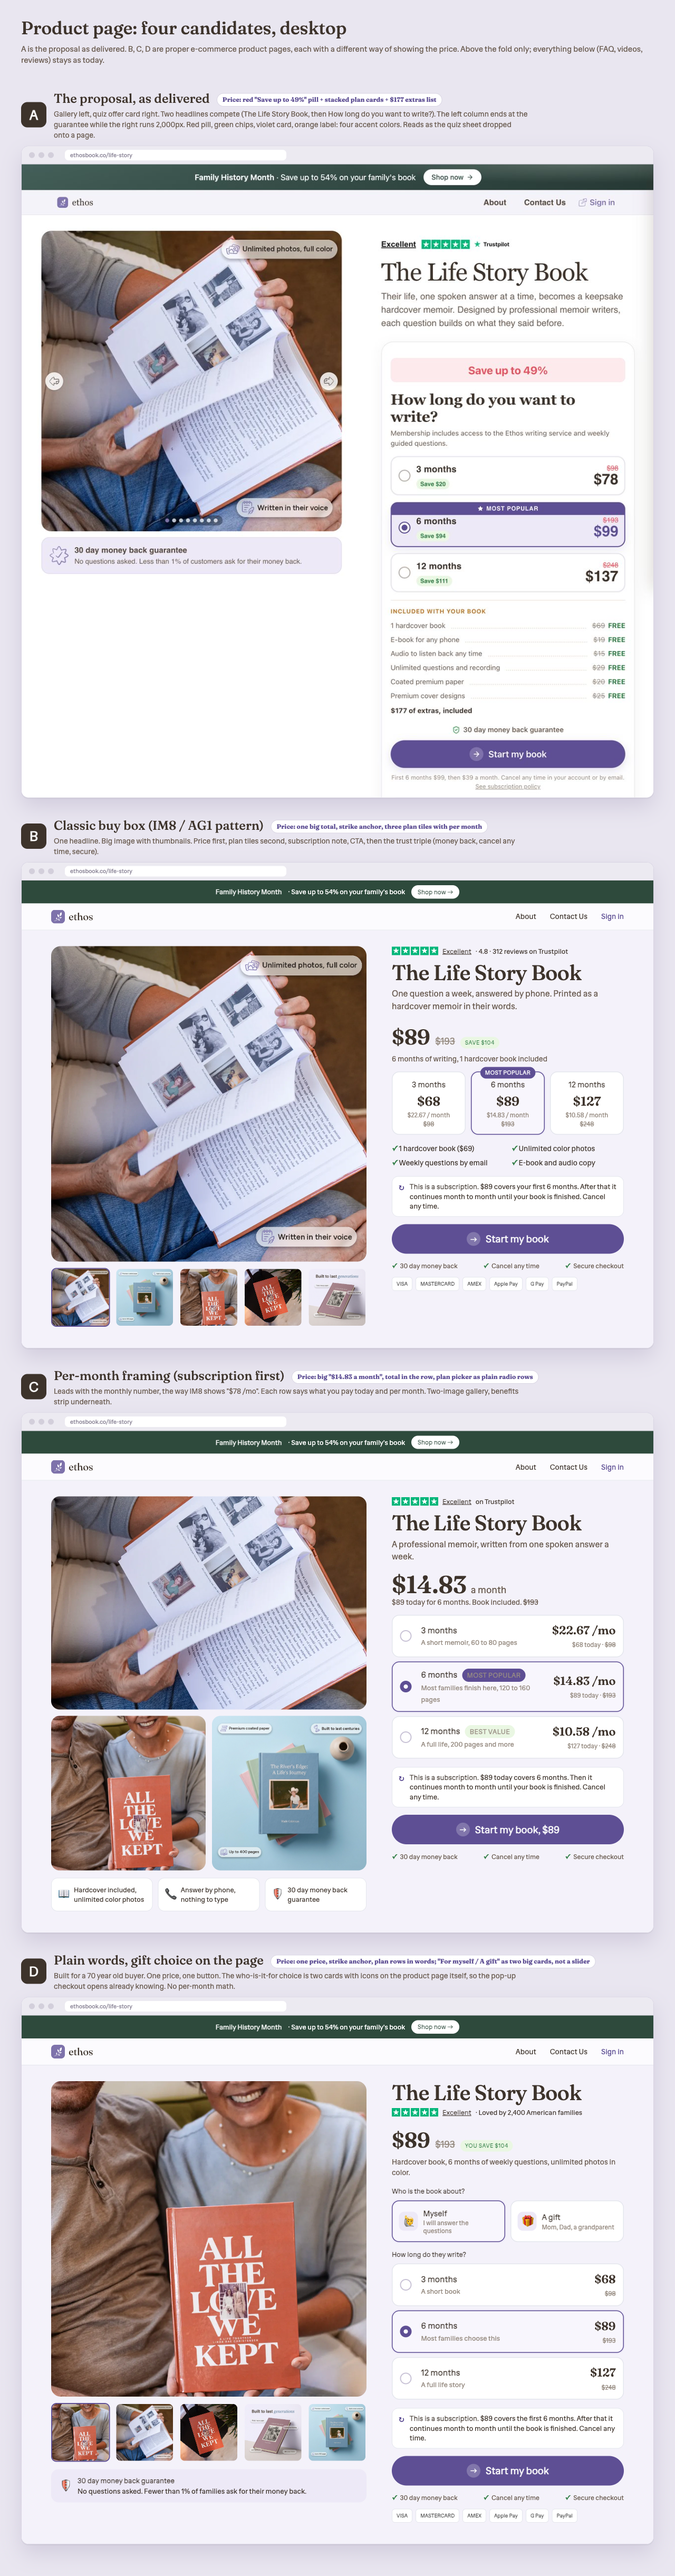
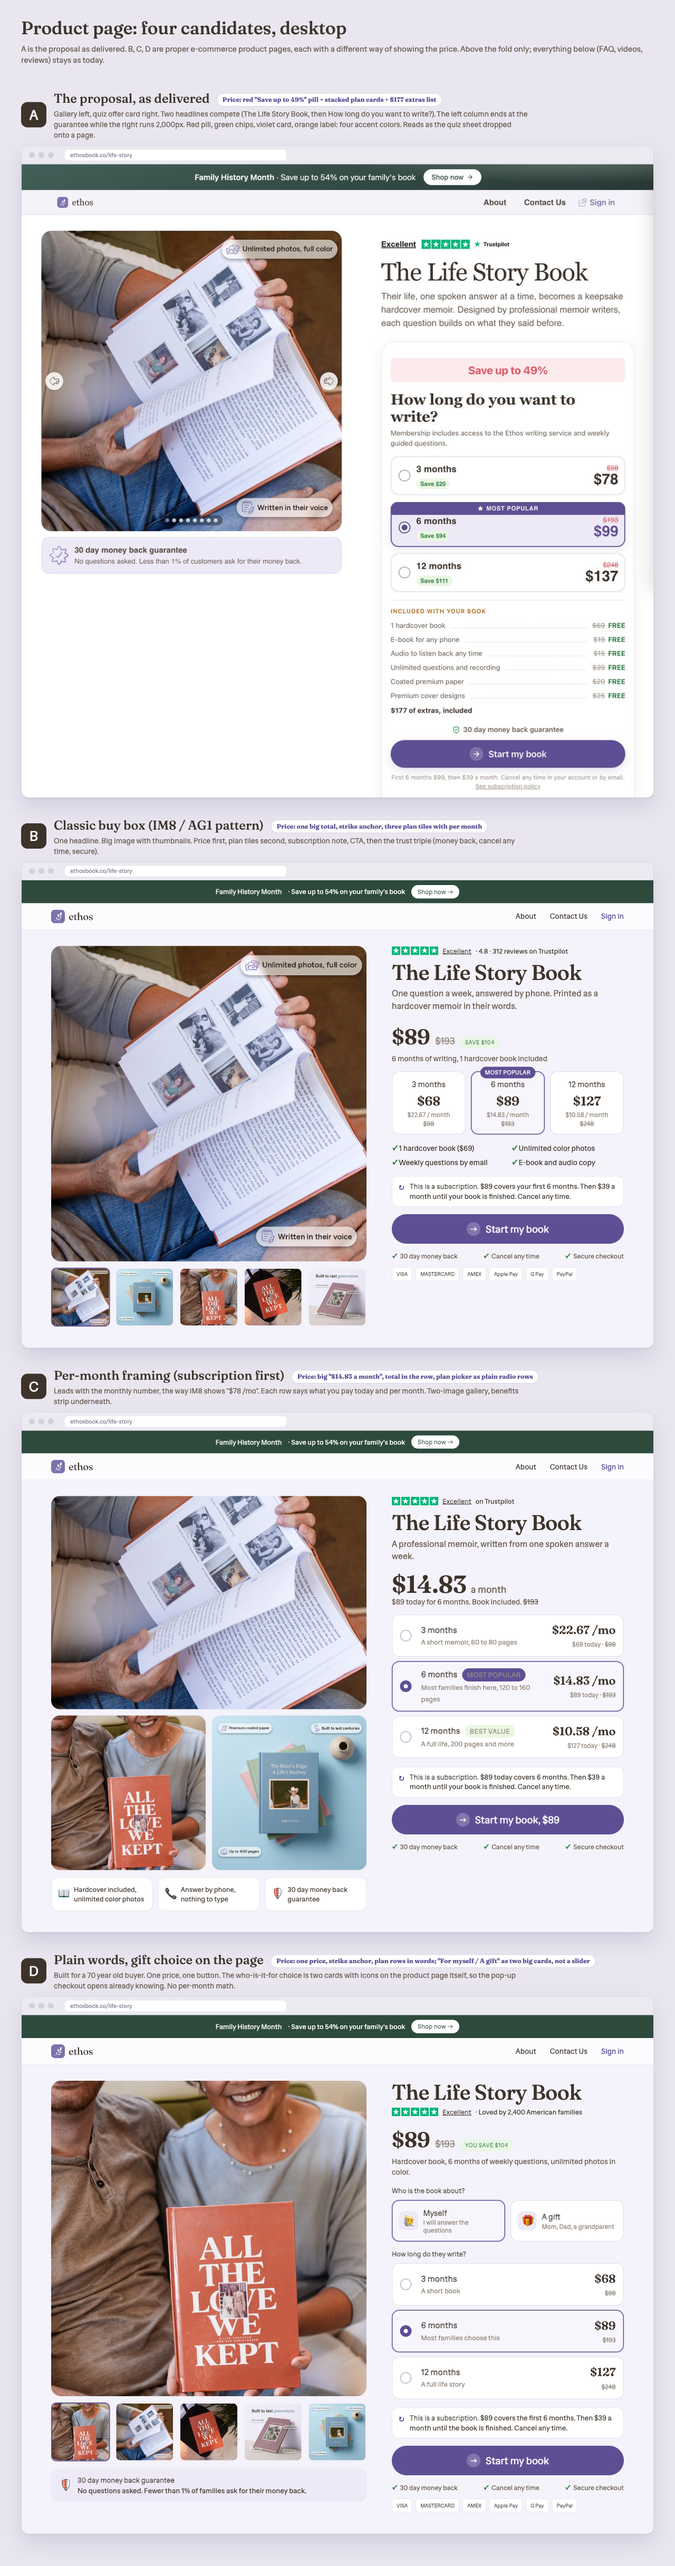
Renewal amount in the subscription note

diff --git a/product-page/desktop.html b/product-page/desktop.html
@@ -85,7 +85,7 @@ h1.t{font-family:var(--display);font-weight:500;font-size:40px;line-height:1.05;
    <div class="tile"><div class="m">12 months</div><div class="p">$127</div><div class="pm">$10.58 / month</div><div class="was">$248</div></div>
   </div>
   <ul class="inc"><li>1 hardcover book ($69)</li><li>Unlimited color photos</li><li>Weekly questions by email</li><li>E-book and audio copy</li></ul>
-  <div class="subnote"><i>↻</i><div><b>This is a subscription.</b> $89 covers your first 6 months. After that it continues month to month until your book is finished. Cancel any time.</div></div>
+  <div class="subnote"><i>↻</i><div><b>This is a subscription.</b> $89 covers your first 6 months. Then $39 a month until your book is finished. Cancel any time.</div></div>
   <div class="cta"><span class="ar">→</span>Start my book</div>
   <div class="trust"><div><em>✓</em>30 day money back</div><div><em>✓</em>Cancel any time</div><div><em>✓</em>Secure checkout</div></div>
   <div class="pay"><span>VISA</span><span>MASTERCARD</span><span>AMEX</span><span>Apple Pay</span><span>G Pay</span><span>PayPal</span></div>
@@ -109,7 +109,7 @@ h1.t{font-family:var(--display);font-weight:500;font-size:40px;line-height:1.05;
    <div class="row on"><div class="radio"></div><div class="l"><b>6 months <span class="tag pop" style="margin-left:6px">Most popular</span></b><span>Most families finish here, 120 to 160 pages</span></div><div class="r"><b>$14.83 /mo</b><span>$89 today · <s>$193</s></span></div></div>
    <div class="row"><div class="radio"></div><div class="l"><b>12 months <span class="tag save" style="margin-left:6px">Best value</span></b><span>A full life, 200 pages and more</span></div><div class="r"><b>$10.58 /mo</b><span>$127 today · <s>$248</s></span></div></div>
   </div>
-  <div class="subnote"><i>↻</i><div><b>This is a subscription.</b> $89 today covers 6 months. Then it continues month to month until your book is finished. Cancel any time.</div></div>
+  <div class="subnote"><i>↻</i><div><b>This is a subscription.</b> $89 today covers 6 months. Then $39 a month until your book is finished. Cancel any time.</div></div>
   <div class="cta"><span class="ar">→</span>Start my book, $89</div>
   <div class="trust"><div><em>✓</em>30 day money back</div><div><em>✓</em>Cancel any time</div><div><em>✓</em>Secure checkout</div></div>
  </div></div></div></div></div>
@@ -134,7 +134,7 @@ h1.t{font-family:var(--display);font-weight:500;font-size:40px;line-height:1.05;
    <div class="row on"><div class="radio"></div><div class="l"><b>6 months</b><span>Most families choose this</span></div><div class="r"><b>$89</b><s>$193</s></div></div>
    <div class="row"><div class="radio"></div><div class="l"><b>12 months</b><span>A full life story</span></div><div class="r"><b>$127</b><s>$248</s></div></div>
   </div>
-  <div class="subnote"><i>↻</i><div><b>This is a subscription.</b> $89 covers the first 6 months. After that it continues month to month until the book is finished. Cancel any time.</div></div>
+  <div class="subnote"><i>↻</i><div><b>This is a subscription.</b> $89 covers the first 6 months. Then $39 a month until the book is finished. Cancel any time.</div></div>
   <div class="cta"><span class="ar">→</span>Start my book</div>
   <div class="trust"><div><em>✓</em>30 day money back</div><div><em>✓</em>Cancel any time</div><div><em>✓</em>Secure checkout</div></div>
   <div class="pay"><span>VISA</span><span>MASTERCARD</span><span>AMEX</span><span>Apple Pay</span><span>G Pay</span><span>PayPal</span></div>

diff --git a/product-page/mobile.html b/product-page/mobile.html
@@ -71,7 +71,7 @@ h1.t{font-family:var(--display);font-weight:500;font-size:30px;line-height:1.08;
   <div class="tile"><div class="m">12 months</div><div class="p">$127</div><div class="pm">$10.58 / mo</div><div class="was">$248</div></div>
  </div>
  <ul class="inc"><li>1 hardcover book ($69)</li><li>Unlimited color photos</li><li>Weekly questions by email</li><li>E-book and audio copy</li></ul>
- <div class="subnote"><i>↻</i><div><b>This is a subscription.</b> $89 covers your first 6 months. After that it continues month to month until your book is finished. Cancel any time.</div></div>
+ <div class="subnote"><i>↻</i><div><b>This is a subscription.</b> $89 covers your first 6 months. Then $39 a month until your book is finished. Cancel any time.</div></div>
  <div class="cta"><span class="ar">→</span>Start my book</div>
  <div class="trust"><div><em>✓</em>30 day money back</div><div><em>✓</em>Cancel any time</div><div><em>✓</em>Secure</div></div>
  <div class="pay"><span>VISA</span><span>MASTERCARD</span><span>AMEX</span><span>Apple Pay</span><span>G Pay</span><span>PayPal</span></div>
@@ -93,7 +93,7 @@ h1.t{font-family:var(--display);font-weight:500;font-size:30px;line-height:1.08;
   <div class="row on"><div class="radio"></div><div class="l"><b>6 months</b><span>Most families finish here</span></div><div class="r"><b>$14.83 /mo</b><span>$89 today · <s>$193</s></span></div></div>
   <div class="row"><div class="radio"></div><div class="l"><b>12 months</b><span>A full life</span></div><div class="r"><b>$10.58 /mo</b><span>$127 today · <s>$248</s></span></div></div>
  </div>
- <div class="subnote"><i>↻</i><div><b>This is a subscription.</b> $89 today covers 6 months. Then it continues month to month until your book is finished. Cancel any time.</div></div>
+ <div class="subnote"><i>↻</i><div><b>This is a subscription.</b> $89 today covers 6 months. Then $39 a month until your book is finished. Cancel any time.</div></div>
  <div class="cta"><span class="ar">→</span>Start my book, $89</div>
  <div class="trust"><div><em>✓</em>30 day money back</div><div><em>✓</em>Cancel any time</div><div><em>✓</em>Secure</div></div>
  <div class="benefits"><div><i>📖</i>Hardcover included, unlimited color photos</div><div><i>📞</i>Answer by phone, nothing to type</div></div>
@@ -118,7 +118,7 @@ h1.t{font-family:var(--display);font-weight:500;font-size:30px;line-height:1.08;
   <div class="row on"><div class="radio"></div><div class="l"><b>6 months</b><span>Most families choose this</span></div><div class="r"><b>$89</b><s>$193</s></div></div>
   <div class="row"><div class="radio"></div><div class="l"><b>12 months</b><span>A full life story</span></div><div class="r"><b>$127</b><s>$248</s></div></div>
  </div>
- <div class="subnote"><i>↻</i><div><b>This is a subscription.</b> $89 covers the first 6 months. After that it continues month to month until the book is finished. Cancel any time.</div></div>
+ <div class="subnote"><i>↻</i><div><b>This is a subscription.</b> $89 covers the first 6 months. Then $39 a month until the book is finished. Cancel any time.</div></div>
  <div class="cta"><span class="ar">→</span>Start my book</div>
  <div class="trust"><div><em>✓</em>30 day money back</div><div><em>✓</em>Cancel any time</div><div><em>✓</em>Secure</div></div>
  <div class="guar"><span class="sh">🛡</span><div><b>30 day money back guarantee</b>No questions asked.</div></div>
